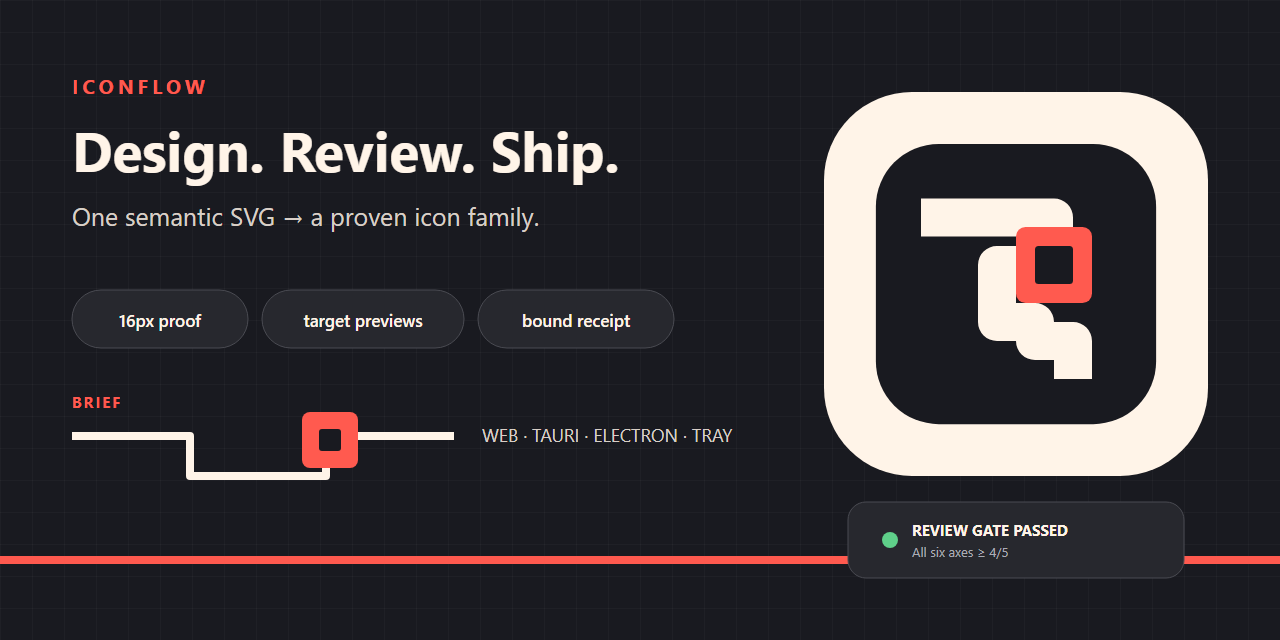
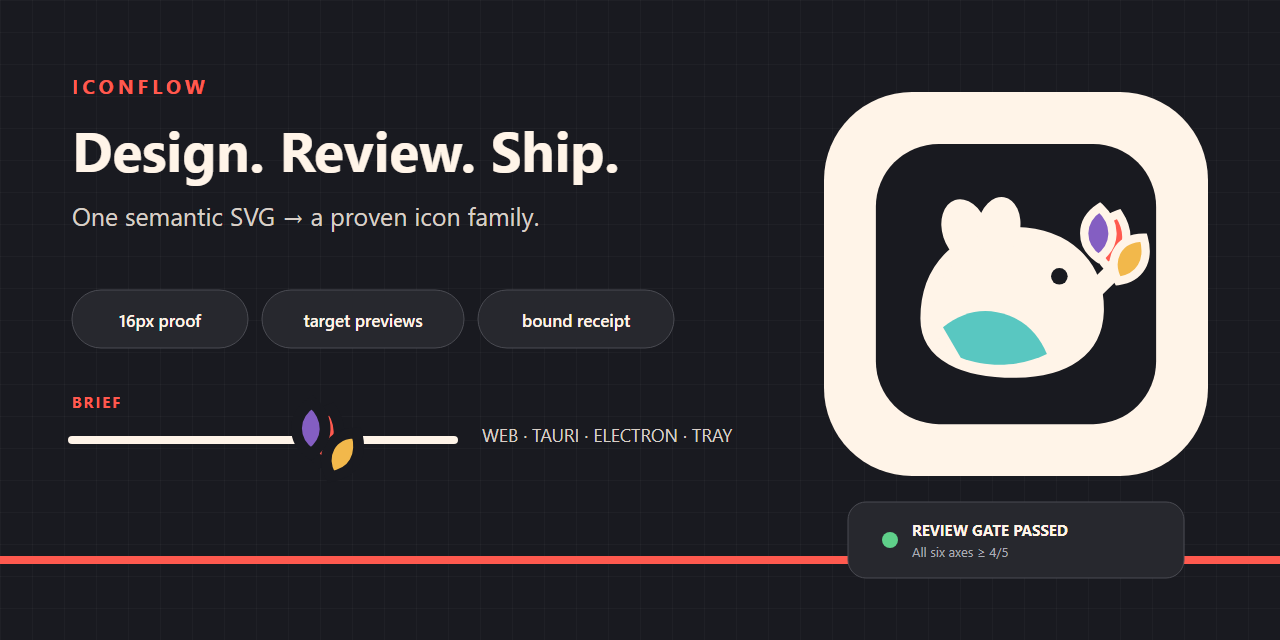
brand: replace the remaining Flow Gate assets with Petal Haypile everywhere
The favicon and PWA set had moved to Petal Haypile on 2026-08-14, but the
homepage proof PNGs, the bake-off and review-sheet evidence, the README hero,
and the social preview still showed the Flow Gate. Regenerate all of them from
brand/master.svg: iconflow render for /assets/proof/icon-16..256.png, iconflow
review for the review sheet, iconflow compare for a bake-off that places Petal
Haypile beside the four gated Round 3 finalists, and the patched hero-flow and
social-preview SVGs (rendered by scripts/render_social_preview.py). README and
docs now describe the current mark and keep Flow Gate only as history or the
fixed technique specimen.

Changed region(s): [[0.7188, 0.3125, 0.9062, 0.5938], [0.0625, 0.625, 0.3438, 0.75]]

diff --git a/README.md b/README.md
@@ -181,24 +181,26 @@ from the Round 3 living exploration: a low-eared pika returns to its hay store
 with three oversized petals. Its editable master, linked tray source,
 source-bound receipt, and checked-in target build live in [`brand/`](brand/).
 
-The earlier **Flow Gate / Proofed Flow** identity remains valuable historical
-evidence and the fixed specimen used for controlled technique comparisons. Five
-concept lenses produced three SVG finalists; Flow Gate beat a generic adaptive
-aperture and a conventional F monogram in the silhouette row.
+Petal Haypile came out of a 28-direction living exploration. The bake-off
+sheet below places it beside the four Round 3 finalists that also passed the
+full target gate, at every native size, in silhouette, and on dark:
 
-![IconFlow brand concept bake-off](docs/assets/concept-bake.png)
+![IconFlow brand bake-off: Petal Haypile beside four gated Round 3 finalists](docs/assets/concept-bake.png)
 
-That historical winner went through two review passes. The first tilted gate blurred at
-16px; the final gate is aligned to a 64-unit rhythm, with a 128-unit counter that
-remains exactly two deliberate pixels at 16px. Its case is preserved in
-[`casebook/2026-07-13-iconflow-brand.md`](casebook/2026-07-13-iconflow-brand.md).
+Its review sheet is the same artifact every consuming project gets from
+`iconflow review`: actual-size renders on three surfaces, pixel zoom, alpha
+footprint, visual silhouette, and adaptive crops. The case is preserved in
+[`casebook/2026-08-14-iconflow-petal-haypile-temporary.md`](casebook/2026-08-14-iconflow-petal-haypile-temporary.md).
 
-<img src="docs/assets/review-proof.png" width="760" alt="IconFlow final review sheet with actual-size, pixel, silhouette, and adaptive-crop evidence">
+<img src="docs/assets/review-proof.png" width="760" alt="IconFlow review sheet for Petal Haypile with actual-size, pixel, alpha, silhouette, and adaptive-crop evidence">
 
-Historical Flow Gate rubric: legibility 4, distinctiveness 4, balance 4,
-color 5, scalability 5, craft 5. Current Petal Haypile rubric: legibility 4,
-distinctiveness 5, balance 4, color 5, scalability 4, craft 4. Both sources
-were `check` clean at their respective review points.
+Current Petal Haypile rubric: legibility 4, distinctiveness 5, balance 4,
+color 5, scalability 4, craft 4, `check` clean. The earlier **Flow Gate /
+Proofed Flow** identity remains historical evidence and the fixed specimen used
+for controlled technique comparisons; its case is
+[`casebook/2026-07-13-iconflow-brand.md`](casebook/2026-07-13-iconflow-brand.md)
+(historical rubric: legibility 4, distinctiveness 4, balance 4, color 5,
+scalability 5, craft 5).
 
 ## Review Lab
 

diff --git a/docs/BRAND_SYSTEM.md b/docs/BRAND_SYSTEM.md
@@ -45,8 +45,9 @@ iconflow-mark
 ```
 
 `brand/tray.svg` reuses that geometry without the app card and adds a graphite
-contrast halo for light system bars. Its alpha footprint preserves the pika and
-right-side petal punctuation as a monochrome template.
+contrast halo for light system bars and one broad transparent eye cut. Its alpha
+footprint preserves the pika, the right-side petal punctuation, and the eye as a
+monochrome template (`iconflow check --tray-svg` reports no featureless template).
 
 ## Historical mark anatomy: Flow Gate
 
@@ -155,8 +156,8 @@ brand/iconflow.toml       portable product brief and build contract
 brand/master-review.json  source/target-bound approved decision receipt
 brand/build/              deterministic web/Tauri/Electron/tray outputs
 docs/assets/hero-flow.svg functional product overview
-docs/assets/concept-bake.png concept comparison evidence
-docs/assets/review-proof.png final small-size and mask proof
+docs/assets/concept-bake.png Petal Haypile beside four gated Round 3 finalists
+docs/assets/review-proof.png current Petal Haypile review sheet
 docs/assets/social-preview.svg editable GitHub social-preview source
 docs/assets/social-preview.png 1280×640 rendered social-preview candidate
 ```

diff --git a/docs/LAUNCH_SITE.md b/docs/LAUNCH_SITE.md
@@ -61,7 +61,7 @@ Primary navigation: `Product · Proof · Styles · Cases · Docs · GitHub`
 
 | Section | Job | Required evidence |
 |---|---|---|
-| Hero | State the outcome in one glance | Flow Gate animation built from approved brand SVG; source-install CTA |
+| Hero | State the outcome in one glance | current brand mark animation built from the approved brand SVG; source-install CTA |
 | An icon is not finished at 1024px | Expose the failure IconFlow solves | true 256→16px before/after, color, silhouette, and pixel zoom |
 | The Flow | Make the workflow memorable | `Brief → Explore → Compare → Inspect → Ship → Learn`, one real artifact per step |
 | Interactive Proof Lab | Let visitors inspect instead of trust claims | size, surface, view, target, and receipt-staleness controls |

diff --git a/docs/LAUNCH_READINESS.md b/docs/LAUNCH_READINESS.md
@@ -71,7 +71,7 @@ The remaining owner-controlled proposals are:
 
 - Homepage: `https://github.com/snowyukitty/ai-iconflow#readme`
 - Documentation: `https://github.com/snowyukitty/ai-iconflow/tree/main/docs`
-- Social preview: `docs/assets/social-preview.png` (1280×640, 47 KB; matches
+- Social preview: `docs/assets/social-preview.png` (1280×640, Petal Haypile; matches
   [GitHub's recommended dimensions](https://docs.github.com/en/repositories/managing-your-repositorys-settings-and-features/customizing-your-repository/customizing-your-repositorys-social-media-preview))
 
 Applying them changes GitHub repository settings and requires owner approval.
